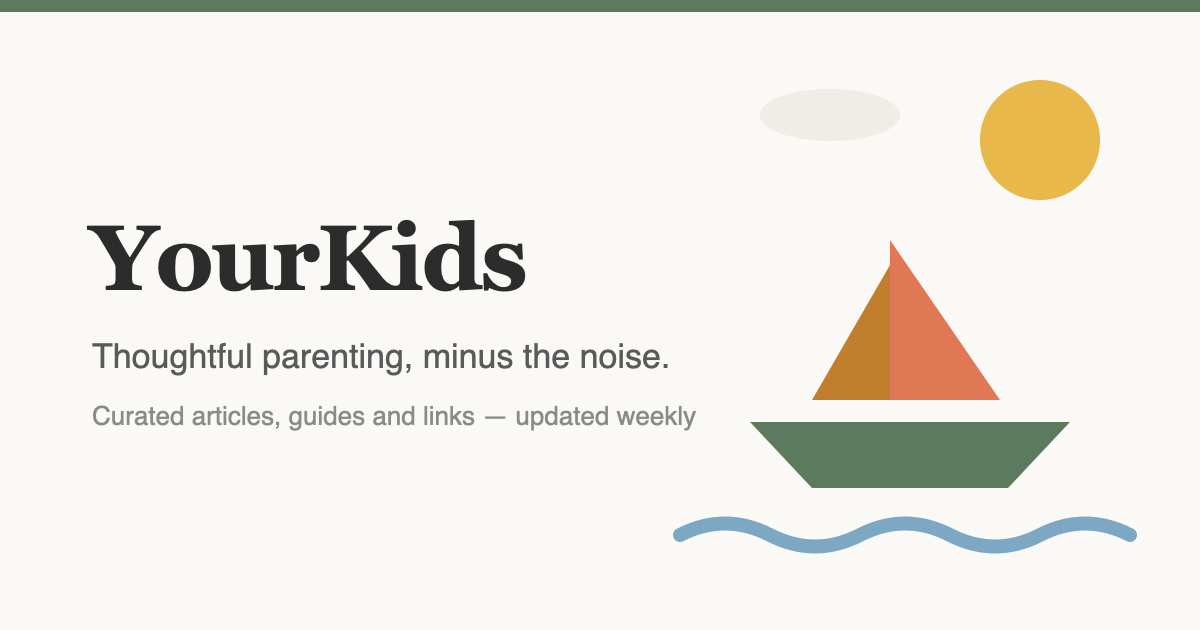
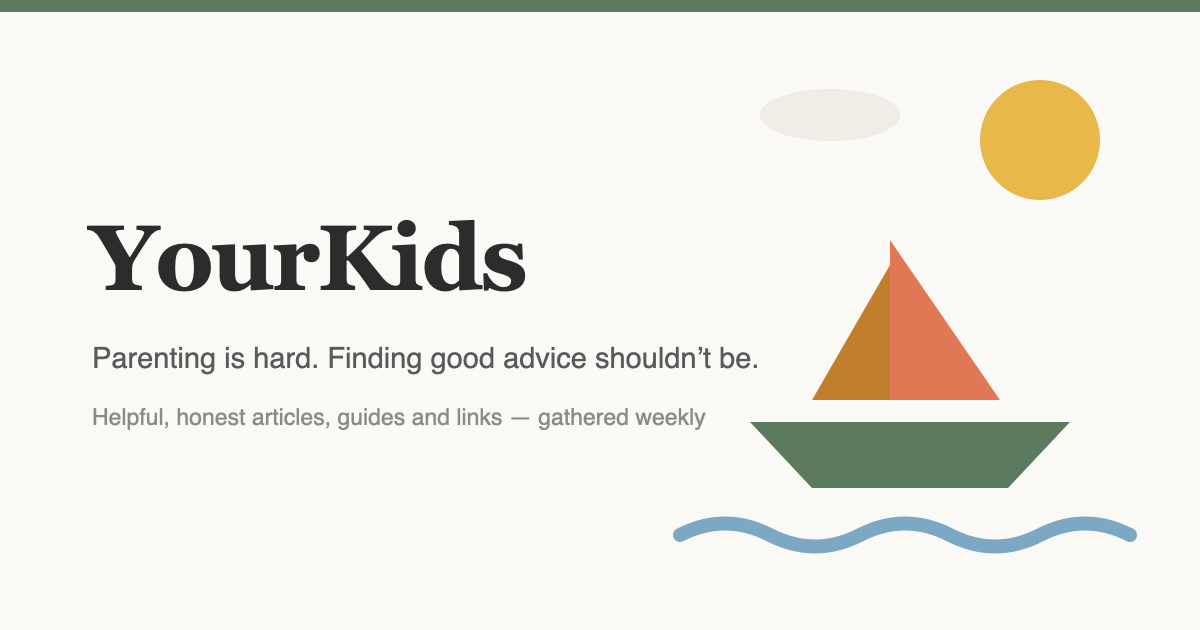
more design and voice improvement

Changed region(s): [[0.0617, 0.5429, 0.6167, 0.6032], [0.0617, 0.6333, 0.5858, 0.6937]]

diff --git a/docs/illustration-brief.md b/docs/illustration-brief.md
@@ -1,0 +1,75 @@
+# Illustration Brief — yourkids.com
+
+A commissioning list for the site's artwork. Every piece below currently exists
+as an in-house placeholder SVG (in `site/src/lib/topicArt.ts`, `site/src/components/Logo.astro`,
+and the page files), so the site works today — commissioned art replaces
+placeholders one-for-one with no code changes beyond pasting in new SVG markup.
+
+## Style
+
+- **Feel:** warm, hand-drawn, kind. Flat colour, organic shapes, no outlines or
+  thin-line iconography. Should feel like a gentle picture book, not a tech site.
+- **Palette (strict):** sage `#5b7a5e`, amber `#c17f2e`, plum `#6b5b8a`,
+  coral `#e07856`, sky `#7da8c3`, sunshine `#e8b84b`, on warm off-white `#faf9f6`.
+  Light tints of each are fine.
+- **Brand motif:** a paper boat on a wave. It can recur subtly across pieces.
+- **Hard rules:** no photorealism; no depictions of identifiable real children;
+  nothing that idealises one family structure or parenting style; illustrations
+  are decorative and must never carry meaning that isn't also in nearby text.
+- **Format:** SVG strongly preferred (the site inlines them and they must scale
+  from ~60px to full-width). Topic/section pieces use a roughly 3:2 landscape
+  frame (current placeholders are 120×80 viewBox). Keep file size small —
+  these are inlined into every page that uses them.
+
+## Priority 1 — Brand (needed first; everything else hangs off it)
+
+| # | Piece | Used in | Notes |
+|---|-------|---------|-------|
+| 1 | Logomark | Nav, footer, favicon | Paper boat (or a better idea in the same spirit). Must read clearly at 16px. |
+| 2 | Homepage hero | Homepage | The flagship piece, ~280×200 frame. Current placeholder: boat on waves with sun and clouds. Should feel hopeful and calm. |
+| 3 | Default OG / social image | Link previews everywhere | 1200×630. Wordmark + tagline + hero art. Source SVG at `site/src/assets/og-default.svg`. |
+| 4 | 404 illustration | Error page | Gently humorous — current placeholder is a capsized paper boat. Warm, not bleak. |
+| 5 | Fallback motif | Any content without a matching topic | Small boat-on-wave vignette (the "default art"). |
+
+## Priority 2 — Topics (one per topic tag; shown on cards, topic pages, article headers)
+
+| # | Topic | Accent | Current placeholder concept (open to better ideas) |
+|---|-------|--------|------------------------------------------------------|
+| 6 | Health | sage | Heart growing like a leaf |
+| 7 | Family life | coral | House with sun and a winding path |
+| 8 | Education | sky | Open book with an idea sprouting from it |
+| 9 | Safety | amber | Umbrella sheltering small shapes — protection without fear |
+| 10 | Special needs | plum | Infinity loop (neurodiversity symbol — deliberately **not** a puzzle piece) with stars |
+
+New topics will appear as the site grows (likely next: sleep, food & mealtimes,
+behaviour, screens & tech, play). Quoting for a follow-on batch of ~5 in the
+same style would be useful.
+
+## Priority 3 — Sections (index-page headers)
+
+| # | Section | Accent | Current placeholder concept |
+|---|---------|--------|------------------------------|
+| 11 | Articles | sage | Stacked pages with a leaf bookmark |
+| 12 | Curated links | amber | Compass |
+| 13 | Editorials | plum | Speech bubble with writing |
+| 14 | Topics | sky | Scattered playful shapes |
+
+## Priority 4 — Coming soon (Phases 2–5 of the development plan; brief now, deliver later)
+
+| # | Piece | Used in | Notes |
+|---|-------|---------|-------|
+| 15 | Games section identity | Nav badge, games index hero | Coral accent. Playful but calm — board-game/family feel, not arcade. |
+| 16–20 | Game covers ×5 | Game cards and gate screens | Memory Match, Word Sprout, Bedtime Story Spinner, Kitchen Maths Market, Family Quiz Night. Each needs a card cover (3:2) reusing its game's internal art. |
+| 21 | Newsletter / welcome email header | Signup confirmation, weekly digest | Horizontal banner, works in email clients (PNG export too). |
+| 22 | "Unlock" / membership moment | Games gate success state | Small celebratory piece — boat with a raised flag, confetti-ish but gentle. |
+| 23 | Empty states ×2 | "Nothing here yet" on lists and search | Quiet, friendly waiting imagery. |
+| 24 | Story Spinner wheel faces | In-game | ~18 small spot illustrations (6 characters, 6 places, 6 problems) — the largest single batch; can be quoted separately. |
+| 25 | Memory Match card backs | In-game | One repeating pattern tile using the brand motif. |
+
+## Summary for quoting
+
+- **Now:** 14 pieces (brand 5 + topics 5 + sections 4).
+- **Later, same style:** ~11 pieces plus the ~18 spinner spots and a pattern tile.
+- Deliverables: layered source files + optimised SVGs; PNG exports for the OG
+  image and email header. Licence: full ownership/buy-out preferred (content is
+  republished and remixed across the site, emails, and games).

diff --git a/CLAUDE.md b/CLAUDE.md
@@ -11,7 +11,7 @@ yourkids.com is a self-refreshing, AI-curated parenting content site. Two compon
 
 The engine aggregates content continuously throughout the week but publishes in a single weekly batch (Sunday morning, Europe/London). This is deliberate — it builds a curated knowledge base rather than chasing news.
 
-`docs/` holds the project overview, build log, and prioritised next-tasks list (`docs/next-tasks.md`).
+**Roadmap and status live in `docs/`, not here:** `docs/revitalization-plan.md` is the active phased development plan (visual redesign ✅ shipped, backend/subscriptions, admin, games area) with per-phase status notes; `docs/next-tasks.md` is the prioritised task list with checkboxes kept current; `docs/illustration-brief.md` is the artwork commissioning list. Update those documents when completing work, and read them before starting new work.
 
 ## Architecture
 
@@ -87,6 +87,16 @@ All published content lives **flat** in `site/src/content/content/` as markdown 
 - `section` is currently always `parenting`
 
 Site pages (`site/src/pages/`) filter the collection by `type` for the `/articles`, `/editorial`, and `/curated` sections, and by tag for `/topics`.
+
+Articles may include a `## Key takeaways` section after the opening paragraph (3–5 bullets); the site styles it as a highlighted box via the heading's slugified id, and the engine writer prompt instructs the LLM to produce it for evergreen articles.
+
+## Site Design System
+
+- **Voice everywhere** (Site Bible §2): warm, friendly, humble — applies to interface copy (headings, buttons, empty states, error pages) as much as articles. "The most helpful things we can find", never "the best"; admit uncertainty; never sneer.
+- **Illustration layer**: `site/src/lib/topicArt.ts` maps topic tags and sections to flat SVG illustrations + accent colours (sage/amber/plum + coral/sky/sunshine). Cards, topic pages, section heroes, and article headers pull from it automatically, so engine-published content gets artwork with no engine changes. Current SVGs are in-house placeholders, swappable 1:1 for commissioned art (see `docs/illustration-brief.md`). Style rules live in Site Bible §13: no stock photos, no photorealistic AI images of children, illustrations are decorative only.
+- **Brand motif**: paper boat on a wave (`Logo.astro`, `public/favicon.svg`, OG image). The OG image source is `site/src/assets/og-default.svg`; regenerate `public/og-default.png` (1200×630) via qlmanage + sips center-crop on macOS.
+- **Key components**: `Logo`, `Footer` (3-column), `SectionHero` (tinted accent band), `ContentCard` (art band + accent top border, `featured` variant for the homepage).
+- **SEO**: BaseLayout emits canonical, OG/Twitter meta, and favicon/RSS links on every page; ContentLayout adds JSON-LD Article schema and reading time (pass `body={item.body}`). Sitemap via `@astrojs/sitemap` — **pinned to exact 3.2.1**; newer versions require Astro 5 and break the build. RSS at `/rss.xml`, robots.txt in `public/`.
 
 ## Content Guardrails (Hard Boundaries)
 

diff --git a/engine/config/site_bible.md b/engine/config/site_bible.md
@@ -32,6 +32,11 @@ developmental milestones — probably more so on a rainy weekend.
 - Never preachy or prescriptive — presents information and lets parents decide
 - When there is genuine disagreement among experts, we say so honestly
 - Friendly and occasionally funny, but never flippant about serious topics
+- Humble — we say "the most helpful things we can find" rather than "the
+  best"; we admit uncertainty; we never talk down to readers or sneer at
+  other sources
+- This voice applies everywhere words appear: articles, site interface copy
+  (headings, buttons, empty states, error pages), emails, and game text
 
 ## 3. CONTENT GUARDRAILS — HARD BOUNDARIES
 